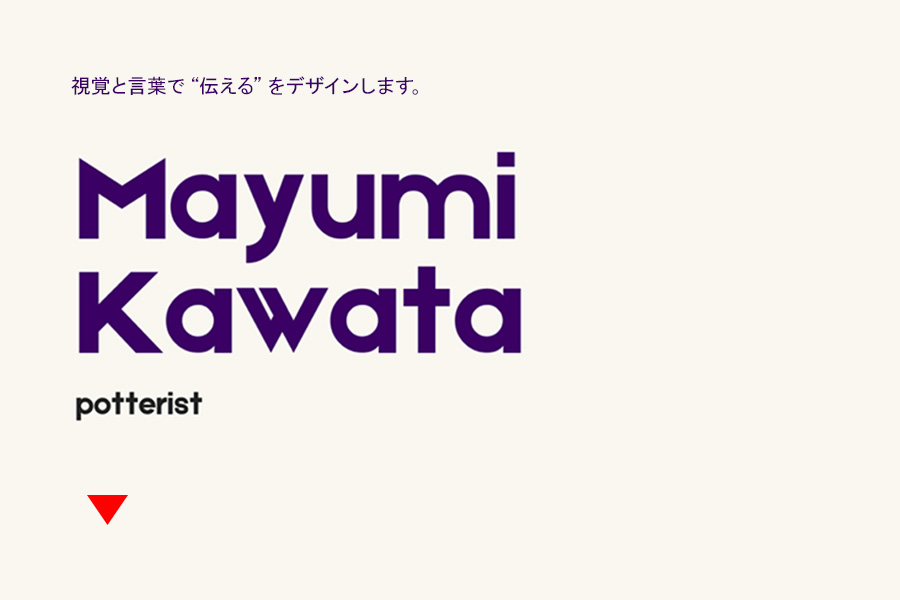
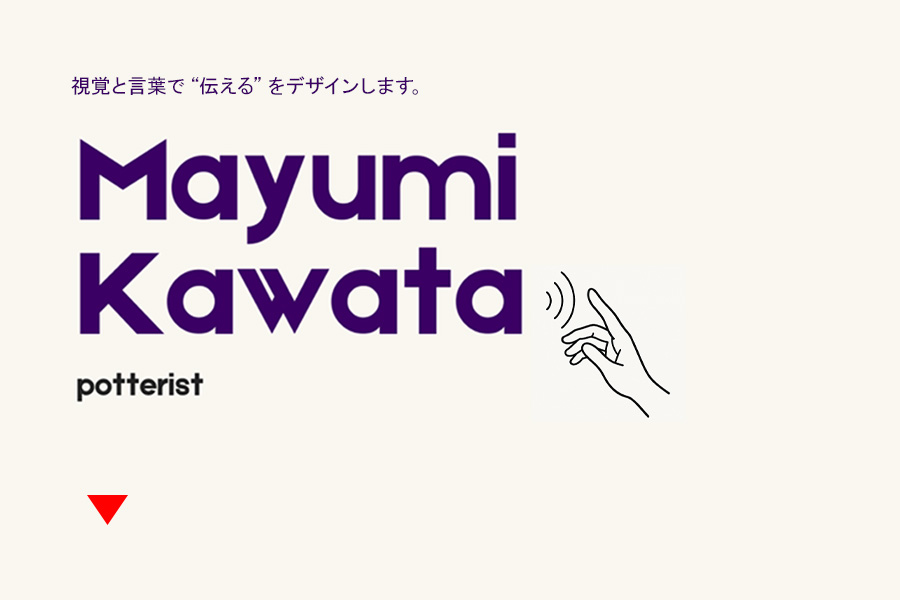
メイン完成

diff --git a/index.html b/index.html
@@ -35,12 +35,46 @@
     <main class="content">
 
       <!-- mv -->
-      <div class="mv">
+      <main class="mv">
         <div class="mv-container">
-          <img src="img/top.jpg" alt="メイン画像">
+          <img src="img/top.jpg"  alt="メイン画像">
         </div>
       </div>
       <!-- /mv -->
+
+      <!-- about -->
+      <section class="about section" id="about">
+        <div class="container">
+        <h1 class="left">
+          <svg xmllns=""http://www.w3.org/2000/svg" width="50" height="247.5"
+          viewBox="0 0 50 247.5">
+        <g transform="translate(-35 -821.5)">
+          <text transform="translate(85 821.5) rotate(90)" fill="#3b0064" font-size="45" font-family="PTSans-Bold, PT Sans" font-weight="700"
+          lerret-spacing="0.1em">
+          <tspan x="0" y="38">About me</tspan>
+        </text>
+        </g>
+        </svg>
+        
+          <h2 class="title">ABOUT</h2>
+          <div class="profile">
+            <p class="profile-img">
+              <img src="img/about.png" alt="about">
+            </p>
+            <div class="profile-body">
+              <p>
+                侍太郎
+              </p>
+              <p>
+                東京都在住。フリーランスとしてWeb制作をしております。2014年より5年間医療業界で営業職として務めておりました。予てより趣味でしていたWebサイト制作を2020年より本業にしました。Web制作におけるデザイン、コーディング、スマートフォンサイト対応、WordPressなどが得意分野です。低予算でWebサイトをお作りしますので、お気軽にお問い合わせください。
+              </p>
+              
+            </div>
+          </div>
+        </div>
+      </section>
+      <!-- /about -->
+
 
       <!-- works -->
       <section class="works section" id="works">
@@ -138,29 +172,7 @@
           </div>
         </div>
       </section>
-      <!-- /skill -->
-
-      <!-- about -->
-      <section class="about section" id="about">
-        <div class="container">
-          <h2 class="title">ABOUT</h2>
-          <div class="profile">
-            <p class="profile-img">
-              <img src="img/about.png" alt="about">
-            </p>
-            <div class="profile-body">
-              <p>
-                侍太郎
-              </p>
-              <p>
-                東京都在住。フリーランスとしてWeb制作をしております。2014年より5年間医療業界で営業職として務めておりました。予てより趣味でしていたWebサイト制作を2020年より本業にしました。Web制作におけるデザイン、コーディング、スマートフォンサイト対応、WordPressなどが得意分野です。低予算でWebサイトをお作りしますので、お気軽にお問い合わせください。
-              </p>
-              
-            </div>
-          </div>
-        </div>
-      </section>
-      <!-- /about -->
+      <!-- /skill --> 
 
       <!-- contact -->
       <section class="contact section" id="contact">

diff --git a/css/style.css b/css/style.css
@@ -140,11 +140,13 @@ img {
  メインビジュアル
 ---------------------------------*/
 .mv {
-  display: flex;
+  display: ;
   align-items: center;
   justify-content: center;
   height: auto;
-  text-align: center;
+  text-align: left;
+  background-color: #f9f7f0;
+  padding-left: 50px;
 }
 
 .mv-container {
@@ -153,9 +155,41 @@ img {
 }
 
 .mv-container img {
-  width: 100%;
-  height: auto;
+  display: block;
+      margin-left: 5%;
+      margin-right: auto;
 }
+
+/*--------------------------------
+ About
+---------------------------------*/
+.profile {
+  display: flex;
+  flex-wrap: wrap;
+  max-width: 800px;
+  margin: 0 auto;
+}
+.profile-img {
+  width: 20%;
+  margin-right: 30px;
+  border-radius: 50%;
+}
+.profile-img img {
+  border-radius: 50%;
+}
+.profile-body {
+  flex: 1;
+}
+
+.profile-body p {
+  font-size: 15px;
+  line-height: 1.8;
+}
+
+.profile-body p:not(:last-child) {
+  margin-bottom: 30px;
+}
+
 
 /*--------------------------------
  Works
@@ -237,35 +271,6 @@ img {
   line-height: 1.8;
 }
 
-/*--------------------------------
- About
----------------------------------*/
-.profile {
-  display: flex;
-  flex-wrap: wrap;
-  max-width: 800px;
-  margin: 0 auto;
-}
-.profile-img {
-  width: 20%;
-  margin-right: 30px;
-  border-radius: 50%;
-}
-.profile-img img {
-  border-radius: 50%;
-}
-.profile-body {
-  flex: 1;
-}
-
-.profile-body p {
-  font-size: 15px;
-  line-height: 1.8;
-}
-
-.profile-body p:not(:last-child) {
-  margin-bottom: 30px;
-}
 
 /*--------------------------------
  Contact
